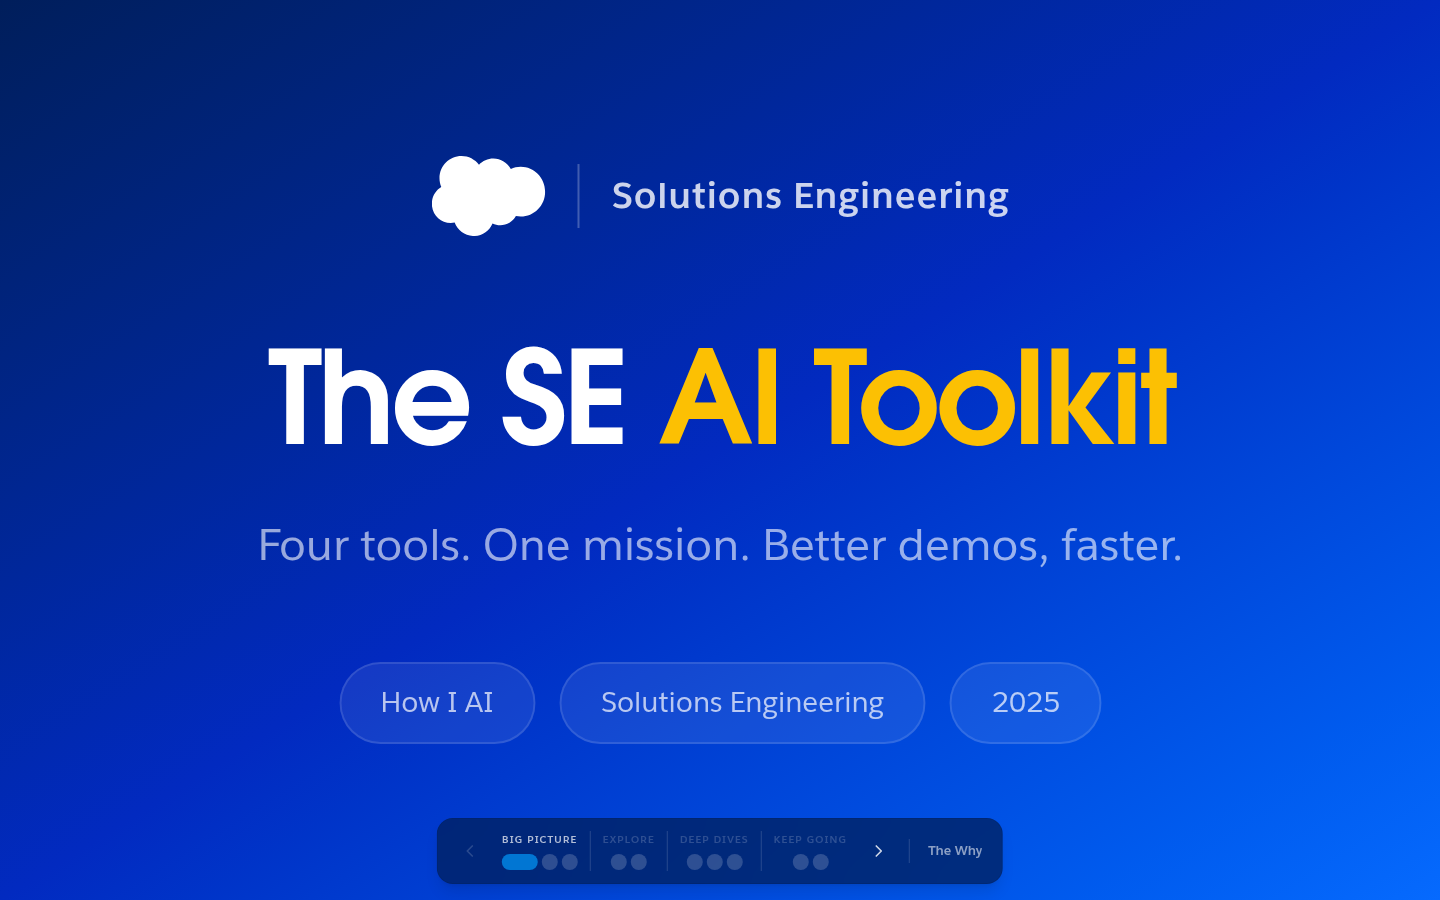
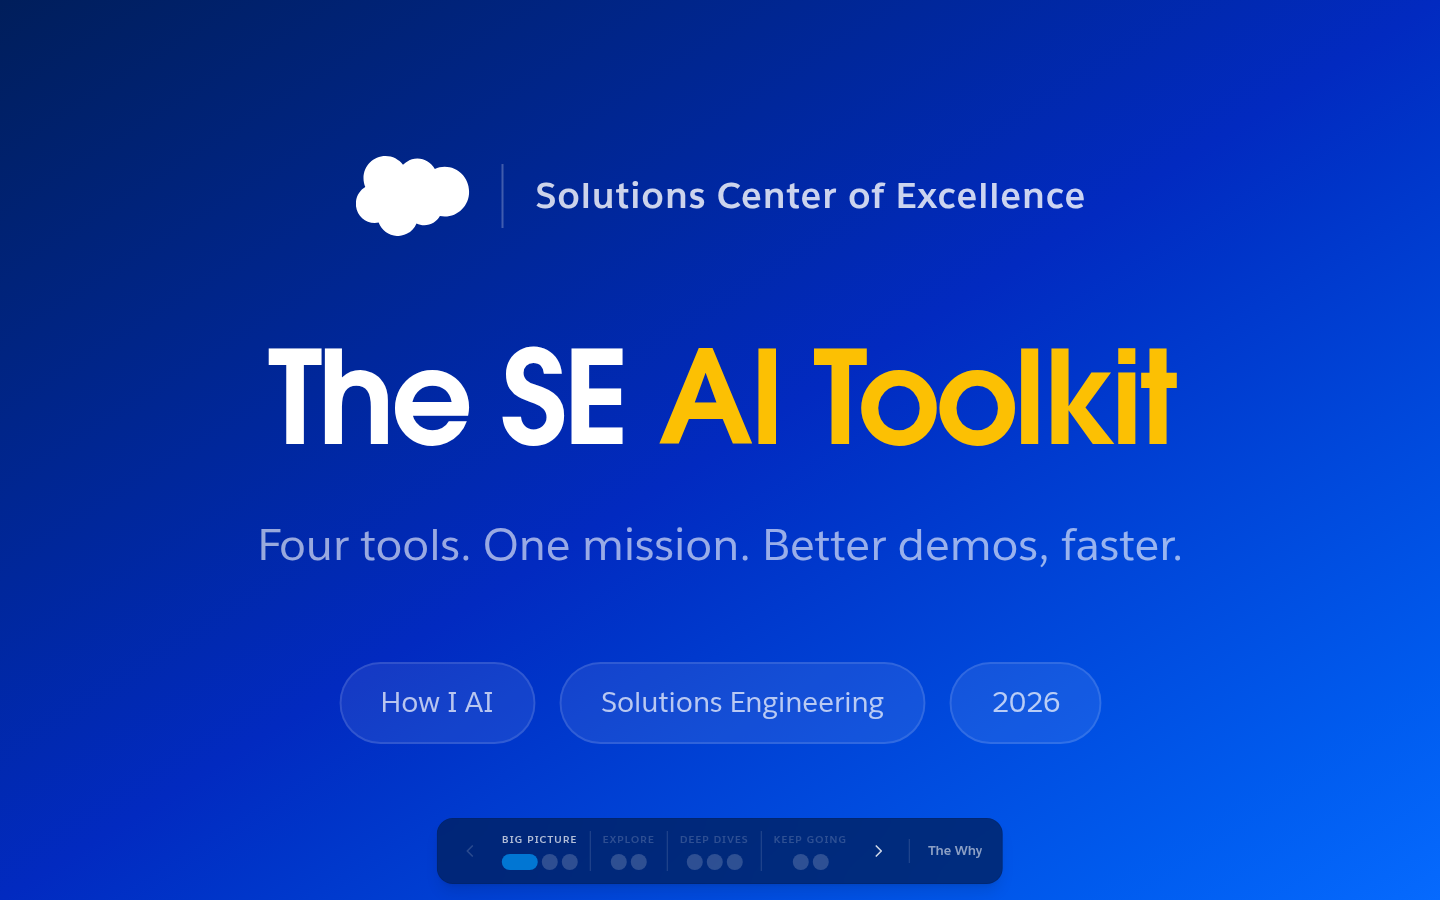
Update title slide: Solutions Center of Excellence, year 2026

Changed region(s): [[0.25, 0.1556, 0.75, 0.28]]

diff --git a/src/content/big-picture.js b/src/content/big-picture.js
@@ -14,7 +14,7 @@ export const theWhy = {
       title: 'The SE',
       accent: 'AI Toolkit',
       subtitle: 'Four tools. One mission. Better demos, faster.',
-      badges: ['How I AI', 'Solutions Engineering', '2025'],
+      badges: ['How I AI', 'Solutions Engineering', '2026'],
     },
 
     // Agenda — orient the audience before the hook.

diff --git a/src/components/slides/TitleSlide.jsx b/src/components/slides/TitleSlide.jsx
@@ -10,7 +10,7 @@ export default function TitleSlide({ title, accent, subtitle, badges, fullscreen
         />
         <div className="w-px h-8 bg-white/25" />
         <span className="text-[18px] font-bold text-white/80 tracking-wide">
-          Solutions Engineering
+          Solutions Center of Excellence
         </span>
       </div>
 
